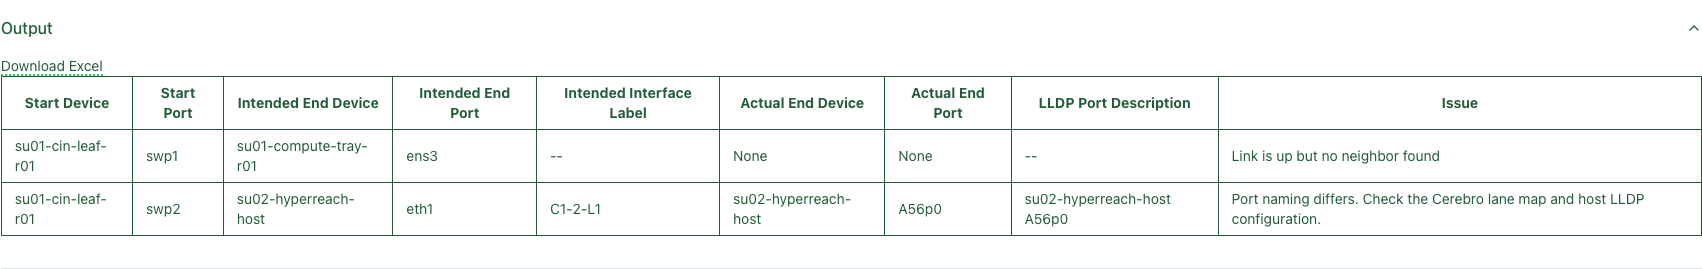
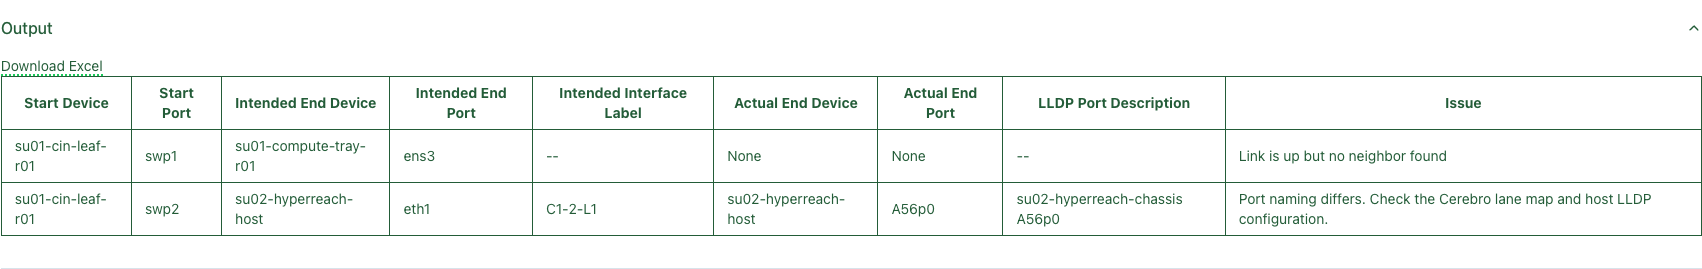
docs: align 1.4.1 Hyper-reach examples with chassis fixture (#455)

diff --git a/ui/tests/docs-screenshots/hyperreachReports.spec.ts b/ui/tests/docs-screenshots/hyperreachReports.spec.ts
@@ -33,7 +33,7 @@ const examples = [
     description: STAGE_DESCRIPTION,
     display: reports.cableValidation,
     image: "cable-validation-report-example.png",
-    observedDescription: "su02-hyperreach-host A56p0",
+    observedDescription: "su02-hyperreach-chassis A56p0",
   },
   {
     id: "docs-hyperreach-connected-host",
@@ -42,7 +42,7 @@ const examples = [
     description: "Get connected host data",
     display: reports.connectedHostMetadata,
     image: "workflows/connected-host-metadata-result.png",
-    observedDescription: "su02-hyperreach-host C1-2-L1",
+    observedDescription: "su02-hyperreach-chassis C1-2-L1",
   },
 ];
 
